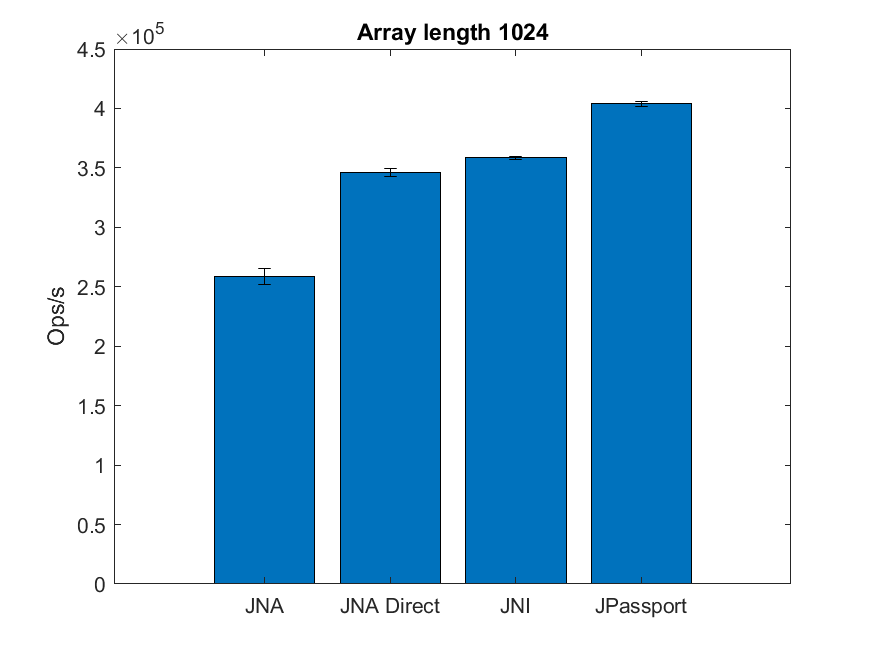
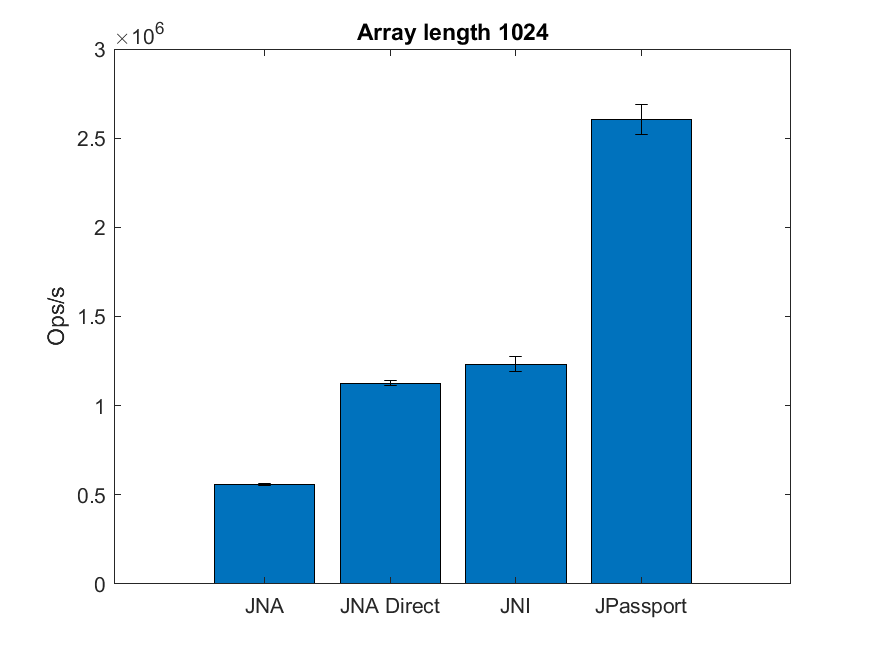
Removing work done to sum arrays in order to get a better idea of api timing

diff --git a/plots/jmh_results_plot.m b/plots/jmh_results_plot.m
@@ -1,34 +1,39 @@
 function jmh_results_plot()
 
+arr_size = [32, 64, 128, 256, 512, 1024, 16384];
+
 passport.name = 'JPassport';
-passport.ops = [3950836, 752707, 404050, 25093, 93783830];
-passport.err = [31398, 15634, 2200, 936, 706989];
+passport.ops = [4980282, 4864624, 4623509, 4055315, 3611582, 2603529, 166257, 93783830];
+passport.err = [36781, 48523,69654, 38364, 30586, 82543, 2793, 706989];
 
 jna.name = 'JNA';
-jna.ops = [939071, 410847, 258584,  20622, 1844900];
-jna.err = [3132, 3000, 6857, 177, 128607];
+jna.ops = [965025, 948315,908491,804422, 704481, 558143,  67235, 1844900];
+jna.err = [16695, 15394, 17186, 4370, 17630, 3294, 2339, 128607];
 
 jna_direct.name = 'JNA Direct';
-jna_direct.ops = [3991461, 653279, 346008, 21723, 12900678];
-jna_direct.err = [21470, 14194, 3585, 359, 331764];
+jna_direct.ops = [4910614, 4531601, 3629602, 2760306, 1864532, 1126374, 76438, 12900678];
+jna_direct.err = [73626, 35901, 62248, 19049, 23614, 15975, 2716, 331764];
 
 jni.name = 'JNI';
-jni.ops = [6171303,696180, 358446, 21872, 91683788];
-jni.err = [44771, 4546, 1538, 428, 1455563];
+jni.ops = [8752710, 7473582, 5382671, 3671953, 2226667, 1232497, 76333, 91683788];
+jni.err = [96588, 93759, 71644, 45954, 61307, 41455, 1708, 1455563];
 
 
 data = [jna, jna_direct, jni, passport];
-do_plot('Array length 32', data, 1);
-do_plot('Array length 512', data, 2);
-do_plot('Array length 1024', data, 3);
-do_plot('Array length 16384', data, 4);
-do_plot('Passing Primatives', data, 5);
-
+do_plot('array_length_32', 'Array length 32', data, 1);
+do_plot('array_length_64', 'Array length 64', data, 2);
+do_plot('array_length_128', 'Array length 128', data, 3);
+do_plot('array_length_256', 'Array length 256', data, 4);
+do_plot('array_length_512', 'Array length 512', data, 5);
+do_plot('array_length_1024', 'Array length 1024', data, 6);
+do_plot('array_length_16384', 'Array length 16384', data, 7);
+do_plot('passing_primatives', 'Passing Primatives', data, 8);
 end
 
-function do_plot(plot_name, data, idx)
+function do_plot(fname, plot_name, data, idx)
     
     figure(idx);
+    clf
     x = 1:length(data);
     values = zeros(length(x), 1);
     err_bars = zeros(length(x), 1);
@@ -50,5 +55,5 @@ function do_plot(plot_name, data, idx)
     title(plot_name);
     ylabel('Ops/s');
     hold off;
-    saveas(idx, [plot_name '.png']);
+    saveas(idx, [fname '.png']);
 end

diff --git a/src/jpassport/performance/TestArrMain.java b/src/jpassport/performance/TestArrMain.java
@@ -39,7 +39,7 @@ public class TestArrMain
         pureJava = new PureJava();
     }
 
-    @Param({"32", "512", "1024", "16384"})
+    @Param({"32", "64", "128", "256", "512", "1024", "16384"})
     public int array_size;
 
     public double[] test_arr;

diff --git a/README.md b/README.md
@@ -12,9 +12,9 @@ methods tested are:
 The testing I did was on Win 10 with and i7-10850H.
 
 The tests look at the overhead in passing arrays of various sizes 
-as well as passing primatives.
+as well as passing primitives.
 
-The results for passing primatives (a double) are:
+The method called here passes 2 doubles to the native code and the native code sums them:
 
 | Benchmark   | Mode   | Cnt |          Score |               Error | Units |
 |---|---|-----|---------------:|--------------------:|----|
@@ -24,39 +24,58 @@ The results for passing primatives (a double) are:
 | TestPrimativeMain.sumDJNI   | thrpt  | 5   |       91683788 |       ± 1455563 | ops/s |
 | TestPrimativeMain.sumDPassport  | thrpt  | 5   |       93783830 | ± 706989 | ops/s |
 
-JNI and The Foreign Linker are neck and neck for passing a primative.
+JNI and The Foreign Linker are neck and neck for passing a primitive.
 
-The results for passing arrays of double are:
+The next method I tried accepted an array of doubles and sums the first 5 elements. Only
+the first 5 elements are summed in order to a) make sure the method isn't a no-op, b) as
+much as possible to compare the transfer time to native only without native time affecting
+things:
 
 | Benchmark   | (array_size) | Mode   | Cnt |        Score |        Error | Units |
 |---------------------------|-------------:|---|---|-------------:|-------------:|---|
 |TestArrMain.sumArrDJava |           32 |  thrpt |    5| 91334755.748 | ± 775844.570 |  ops/s |
+|TestArrMain.sumArrDJava |           64 | thrpt |   5 | 33710152.819 | ± 586613.831 | ops/s |
+|TestArrMain.sumArrDJava |          128 | thrpt |   5 | 15137250.588 | ± 471617.257 | ops/s |
+|TestArrMain.sumArrDJava |          256 | thrpt |   5 |  5747931.688 | ±  74696.000 | ops/s |
 |TestArrMain.sumArrDJava |          512 |  thrpt |    5|  2485175.415 | ±  10049.625 |  ops/s |
 |TestArrMain.sumArrDJava |         1024 |  thrpt |    5|  1169852.568 | ±  60076.255 |  ops/s |
 |TestArrMain.sumArrDJava |        16384 |  thrpt |    5|    70040.174 | ±    319.466 |  ops/s |
-|TestArrMain.sumArrDJNA |            32 |  thrpt |    5 |    939071.844 | ±   3132.623 |  ops/s|
-|TestArrMain.sumArrDJNA |           512 |  thrpt |    5 |    410847.065 | ±   3000.923 |  ops/s|
-|TestArrMain.sumArrDJNA |          1024 |  thrpt |    5 |    258584.836 | ±   6857.975 |  ops/s|
-|TestArrMain.sumArrDJNA |         16384 |  thrpt |    5 |     20622.942 | ±    177.096 |  ops/s|
-|TestArrMain.sumArrDJNADirect |      32 |  thrpt |    5 |   3991461.961 | ±  21470.081 |  ops/s|
-|TestArrMain.sumArrDJNADirect |     512 |  thrpt |    5 |    653279.121 | ±  14194.016 |  ops/s|
-|TestArrMain.sumArrDJNADirect |    1024 |  thrpt |    5 |    346008.965 | ±   3585.143 |  ops/s|
-|TestArrMain.sumArrDJNADirect |   16384 |  thrpt |    5 |     21723.386 | ±    359.314 |  ops/s|
-|TestArrMain.sumArrDJNI |            32 |  thrpt |    5 |   6171303.185 | ±  44771.249 |  ops/s|
-|TestArrMain.sumArrDJNI |           512 |  thrpt |    5 |    696180.547 | ±   4546.553 |  ops/s|
-|TestArrMain.sumArrDJNI |          1024 |  thrpt |    5 |    358446.851 | ±   1538.227 |  ops/s|
-|TestArrMain.sumArrDJNI |         16384 |  thrpt |    5 |     21872.639 | ±    428.542 |  ops/s|
-|TestArrMain.sumArrDPassport |       32 |  thrpt |    5 |   3950836.382 | ±  31398.142 |  ops/s|
-|TestArrMain.sumArrDPassport |      512 |  thrpt |    5 |    752707.648 | ±  15634.507 |  ops/s|
-|TestArrMain.sumArrDPassport |     1024 |  thrpt |    5 |    404050.357 | ±   2200.344 |  ops/s|
-|TestArrMain.sumArrDPassport |    16384 |  thrpt |    5 |     25093.065 | ±    936.503 |  ops/s|
-
+|TestArrMain.sumArrDJNA |            32 | thrpt |   5 |   965025.944 | ±   16695.311 | ops/s |
+|TestArrMain.sumArrDJNA |            64 | thrpt |   5 |   948315.409 | ±  15394.704 | ops/s |
+|TestArrMain.sumArrDJNA |           128 | thrpt |   5 |   908491.307 | ±  17186.015 | ops/s |
+|TestArrMain.sumArrDJNA |           256 | thrpt |   5 |   804422.590 | ±   4370.988 | ops/s |
+|TestArrMain.sumArrDJNA |           512 | thrpt |   5 |   704481.922 | ±   17630.933 | ops/s |
+|TestArrMain.sumArrDJNA |          1024 | thrpt |   5 |   558143.266 | ±    3294.863 | ops/s |
+|TestArrMain.sumArrDJNA |         16384 | thrpt |   5 |    67235.177 | ±    2339.102 | ops/s |
+|TestArrMain.sumArrDJNADirect |      32 | thrpt |   5 |  4910614.266 | ±   73626.251 | ops/s |
+|TestArrMain.sumArrDJNADirect |      64 | thrpt |   5 |  4531601.613 | ±  35901.417 | ops/s |
+|TestArrMain.sumArrDJNADirect |     128 | thrpt |   5 |  3629602.693 | ±  62248.271 | ops/s |
+|TestArrMain.sumArrDJNADirect |     256 | thrpt |   5 |  2760306.793 | ±  19049.793 | ops/s |
+|TestArrMain.sumArrDJNADirect |     512 | thrpt |   5 |  1864532.210 | ±   23614.753 | ops/s |
+|TestArrMain.sumArrDJNADirect |    1024 | thrpt |   5 |  1126374.412 | ±   15975.735 | ops/s |
+|TestArrMain.sumArrDJNADirect |   16384 | thrpt |   5 |    76438.943 | ±    2716.492 | ops/s |
+|TestArrMain.sumArrDJNI |            32 | thrpt |   5 |  8752710.836 | ±   96588.358 | ops/s |
+|TestArrMain.sumArrDJNI |            64 | thrpt |   5 |  7473582.774 | ±  93759.836 | ops/s |
+|TestArrMain.sumArrDJNI |           128 | thrpt |   5 |  5382671.381 | ±  71644.094 | ops/s |
+|TestArrMain.sumArrDJNI |           256 | thrpt |   5 |  3671953.233 | ±  45954.144 | ops/s |
+|TestArrMain.sumArrDJNI |           512 | thrpt |   5 |  2226667.995 | ±   61307.160 | ops/s |
+|TestArrMain.sumArrDJNI |          1024 | thrpt |   5 |  1232497.799 | ±   41455.176 | ops/s |
+|TestArrMain.sumArrDJNI |         16384 | thrpt |   5 |    76333.053 | ±    1708.272 | ops/s |
+|TestArrMain.sumArrDPassport |       32 | thrpt |   5 |  4980282.256 | ±   36781.491 | ops/s |
+|TestArrMain.sumArrDPassport |       64 | thrpt |   5 |  4864624.277 | ±  48523.799 | ops/s |
+|TestArrMain.sumArrDPassport |      128 | thrpt |   5 |  4623509.697 | ±  69654.343 | ops/s |
+|TestArrMain.sumArrDPassport |      256 | thrpt |   5 |  4055315.136 | ±  38364.492 | ops/s |
+|TestArrMain.sumArrDPassport |      512 | thrpt |   5 |  3611582.085 | ±   30586.740 | ops/s |
+|TestArrMain.sumArrDPassport |     1024 | thrpt |   5 |  2603529.338 | ±   82543.662 | ops/s |
+|TestArrMain.sumArrDPassport |    16384 | thrpt |   5 |   166257.326 | ±    2793.988 | ops/s |
 <img src="plots/passing_primitives.png" alt="primative_performance" width="50%"/>
 
-|                                                                           |                                                                                |
-|---------------------------------------------------------------------------|------------------------------------------------------------------------------------|
-| <img src="plots/array_length_32.png" alt="Array_performance_32" width="100%"/> | <img src="plots/array_length_512.png" alt="Array_performance_512" width="100%"/>   |
-| <img src="plots/array_length_1024.png" alt="Array_performance_1024" width="100%"/> | <img src="plots/array_length_16384.png" alt="Array_performance_16K" width="100%"/> |
+|                                                                                    |                                                                                    |
+|------------------------------------------------------------------------------------|------------------------------------------------------------------------------------|
+| <img src="plots/array_length_32.png" alt="Array_performance_32" width="100%"/>     | <img src="plots/array_length_64.png" alt="Array_performance_512" width="100%"/>    |
+| <img src="plots/array_length_128.png" alt="Array_performance_128" width="100%"/>   | <img src="plots/array_length_256.png" alt="Array_performance_256" width="100%"/>   |
+| <img src="plots/array_length_512.png" alt="Array_performance_512" width="100%"/>   | <img src="plots/array_length_1024.png" alt="Array_performance_1024" width="100%"/> |
+| <img src="plots/array_length_16384.png" alt="Array_performance_16k" width="100%"/> |                                                                                    |
 
 Interestingly, at very small array sizes JNI is the clear leader, but that lead is lost
 to the Foreign Linker API (JPassport) when the arrays get larger. This points towards the
